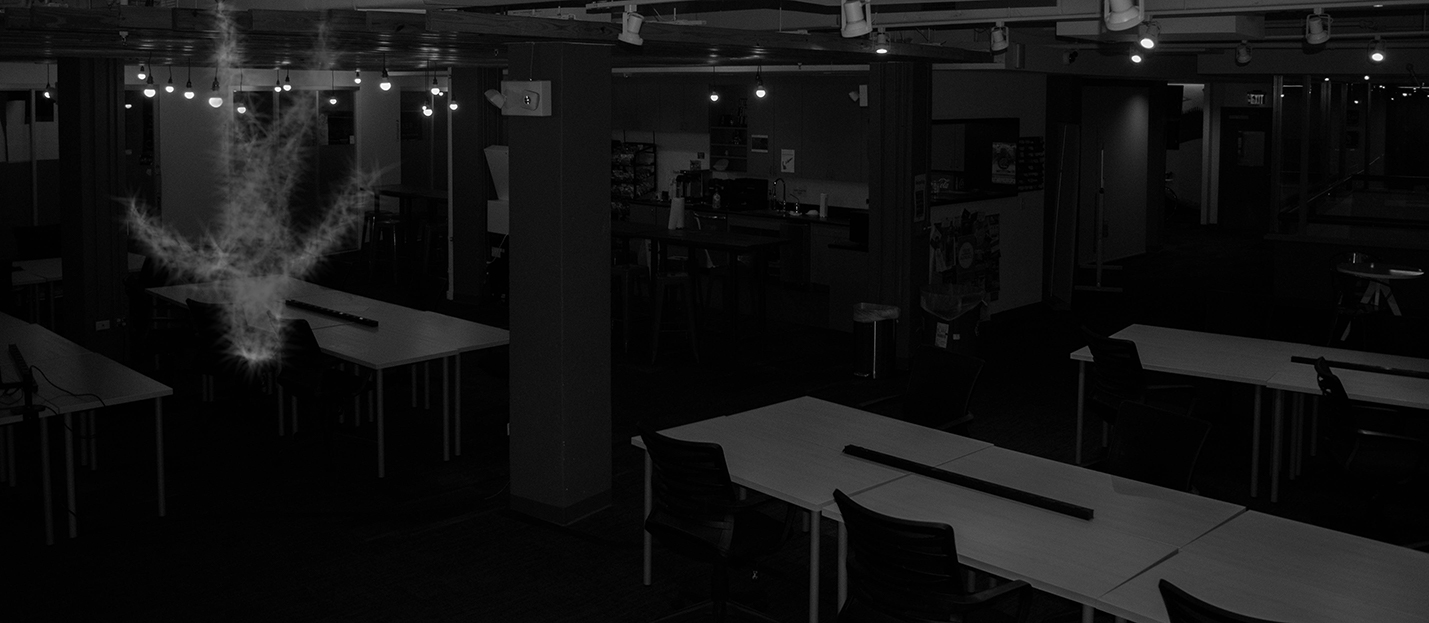
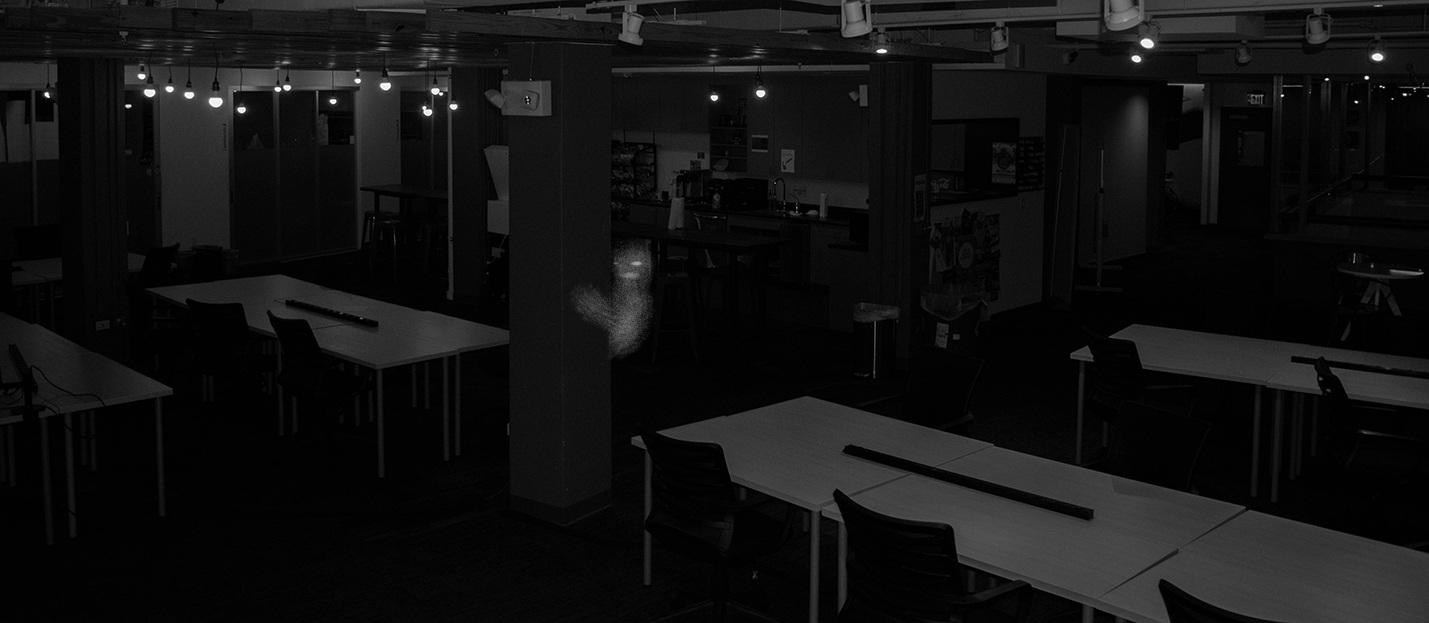
updated all enemy images. working on death animation

Changed region(s): [[0.0616, 0.0, 0.2771, 0.61], [0.4003, 0.3965, 0.4619, 0.5795], [0.2155, 0.0305, 0.2463, 0.122]]

diff --git a/public/styles/main.css b/public/styles/main.css
@@ -150,29 +150,25 @@
 
 #deathAnimation {
   background-image: url(/img/death0.png);
-  background-size: 200px;
+  background-size: 85%;
   background-repeat: no-repeat;
   position: absolute;
   z-index: 1;
-  left: 600px;
-  top: 350px;
-  width: 250px;
-  height: 250px;
+  left: -700px;
+  top: 100px;
+  width: 1000px;
+  height: 100%;
   overflow: auto;
   display: none;
   animation: jumpscare .5s linear alternate forwards; }
 
 @keyframes jumpscare {
   0% {
-    transform: rotate(0deg); }
-  25% {
-    transform: rotate(-45deg) scale(2, 2); }
+    left: -700px; }
   50% {
-    transform: rotate(45deg) scale(3, 3); }
-  75% {
-    transform: rotate(-45deg) scale(3, 3); }
+    left: 200px; }
   100% {
-    transform: rotate(45deg) scale(4, 4); } }
+    left: 350px; } }
 
 #gameOver {
   font-family: "creepyFont";

diff --git a/sass/death.sass b/sass/death.sass
@@ -4,14 +4,14 @@
 
 #deathAnimation
   background-image: url(/img/death0.png);
-  background-size: 200px;
+  background-size: 85%;
   background-repeat: no-repeat;
   position: absolute;
   z-index: 1;
-  left: 600px;
-  top: 350px;
-  width: 250px;
-  height: 250px;
+  left: -700px
+  top: 100px;
+  width: 1000px;
+  height: 100%;
   overflow: auto;
   display: none;
   animation: jumpscare .5s linear alternate forwards
@@ -19,15 +19,12 @@
 
 @keyframes jumpscare
   0%
-    transform: rotate(0deg)
-  25% 
-    transform: rotate(-45deg) scale(2,2)
-  50%
-    transform: rotate(45deg) scale(3,3)
-  75% 
-    transform: rotate(-45deg) scale(3,3)
+    left: -700px
+  50% 
+    left: 200px
   100%
-    transform: rotate(45deg) scale(4,4)
+   left: 350px
+
 
 #gameOver
   font-family: "creepyFont"

diff --git a/src/components/game.js b/src/components/game.js
@@ -220,7 +220,7 @@ class Game extends Component {
               $(".lose").show()
             }, 3500)
             setTimeout(function(){
-              $("#gameOver").show()
+              // $("#gameOver").show()
             }, 6500)
         }
 
